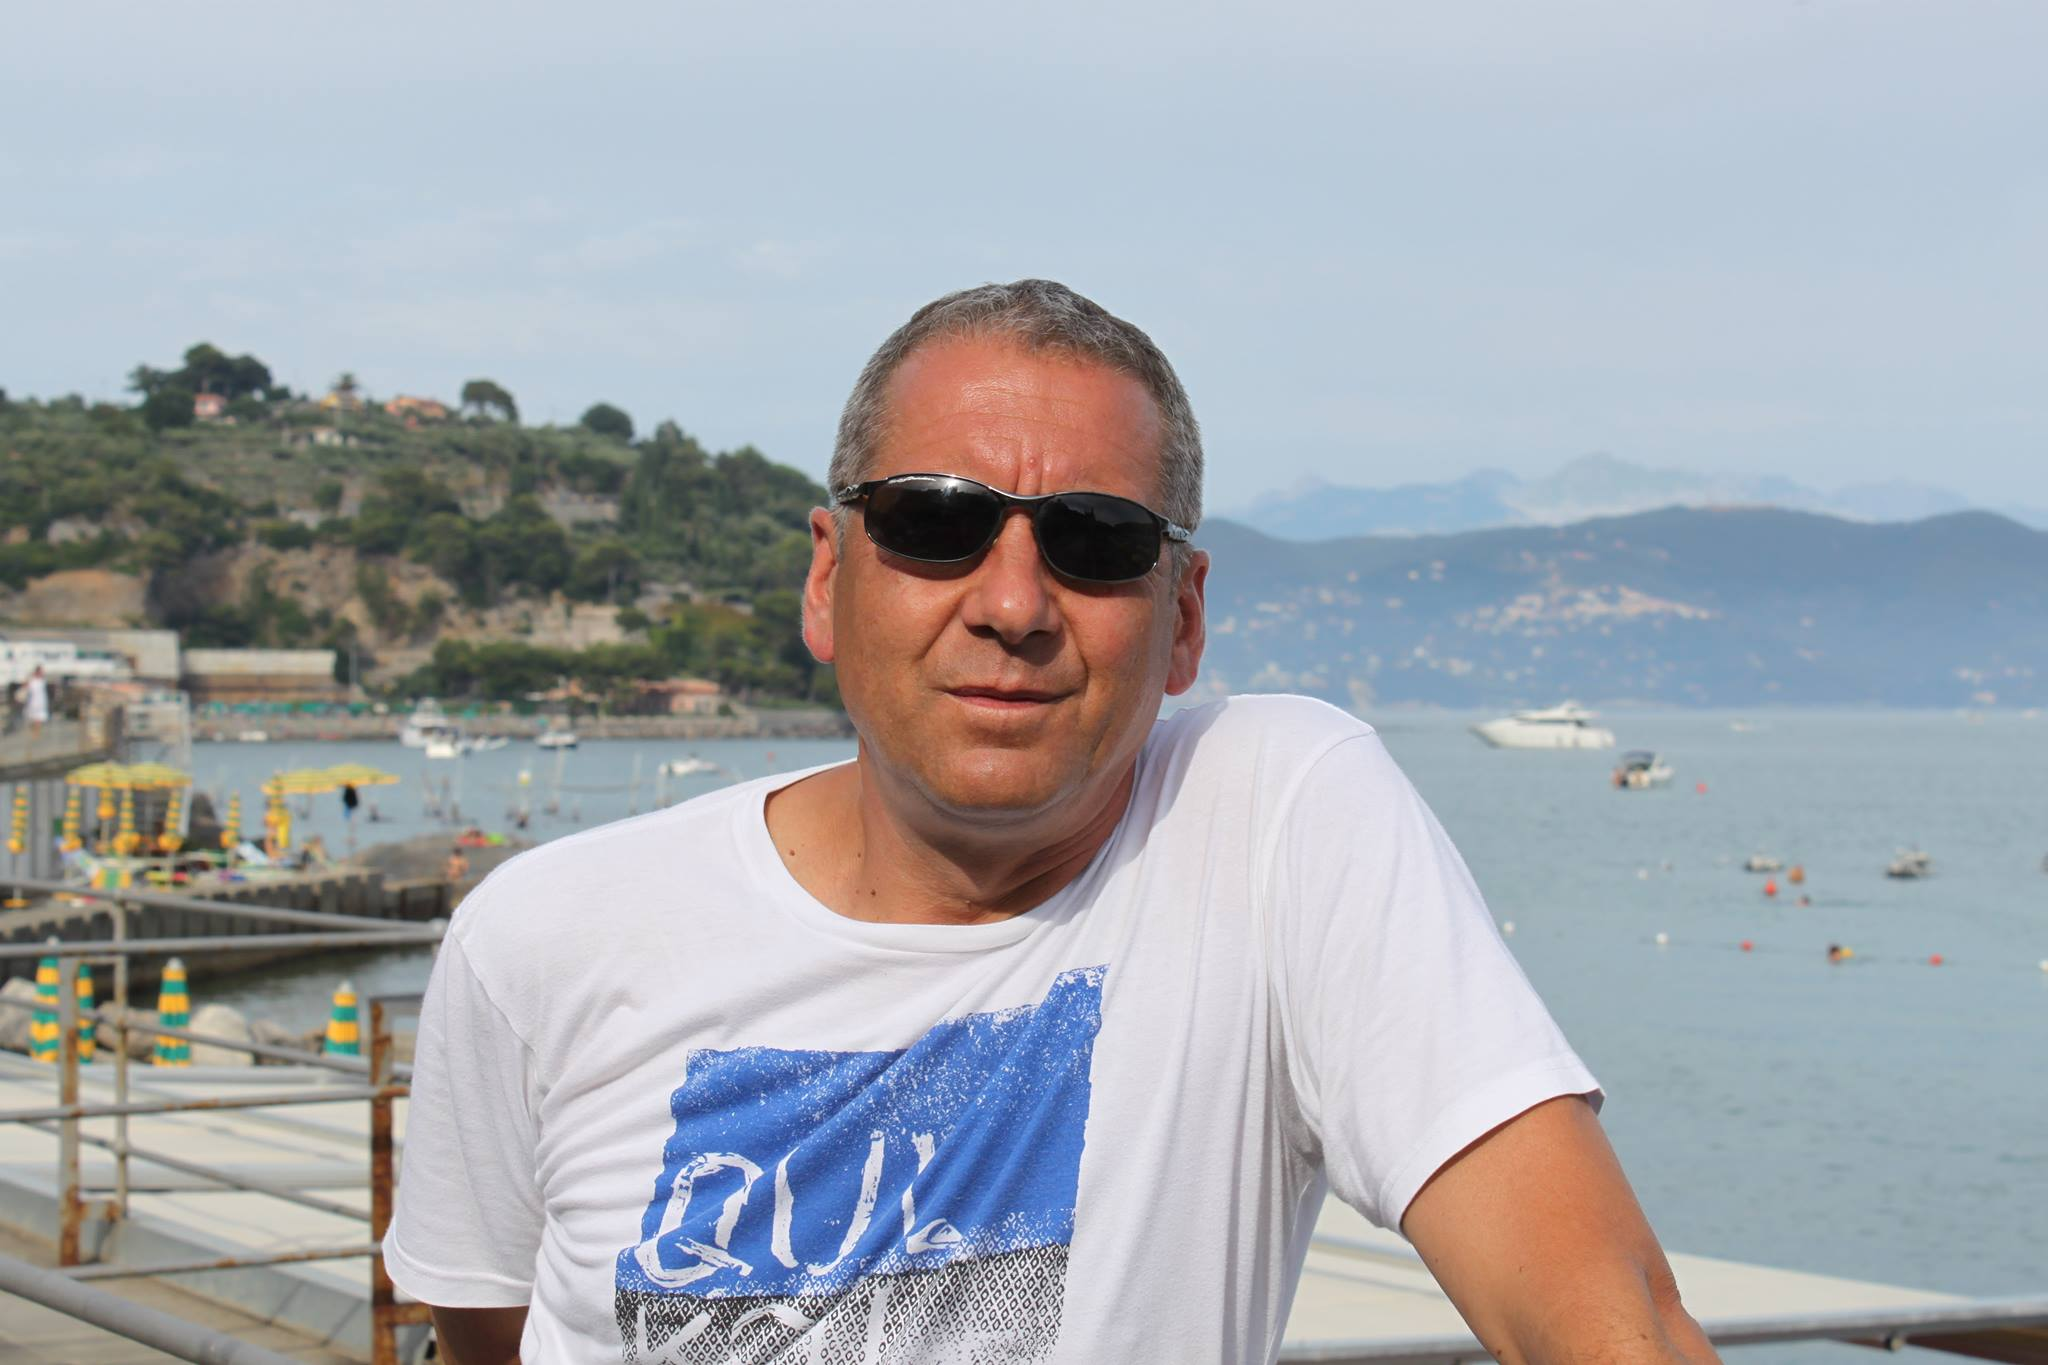
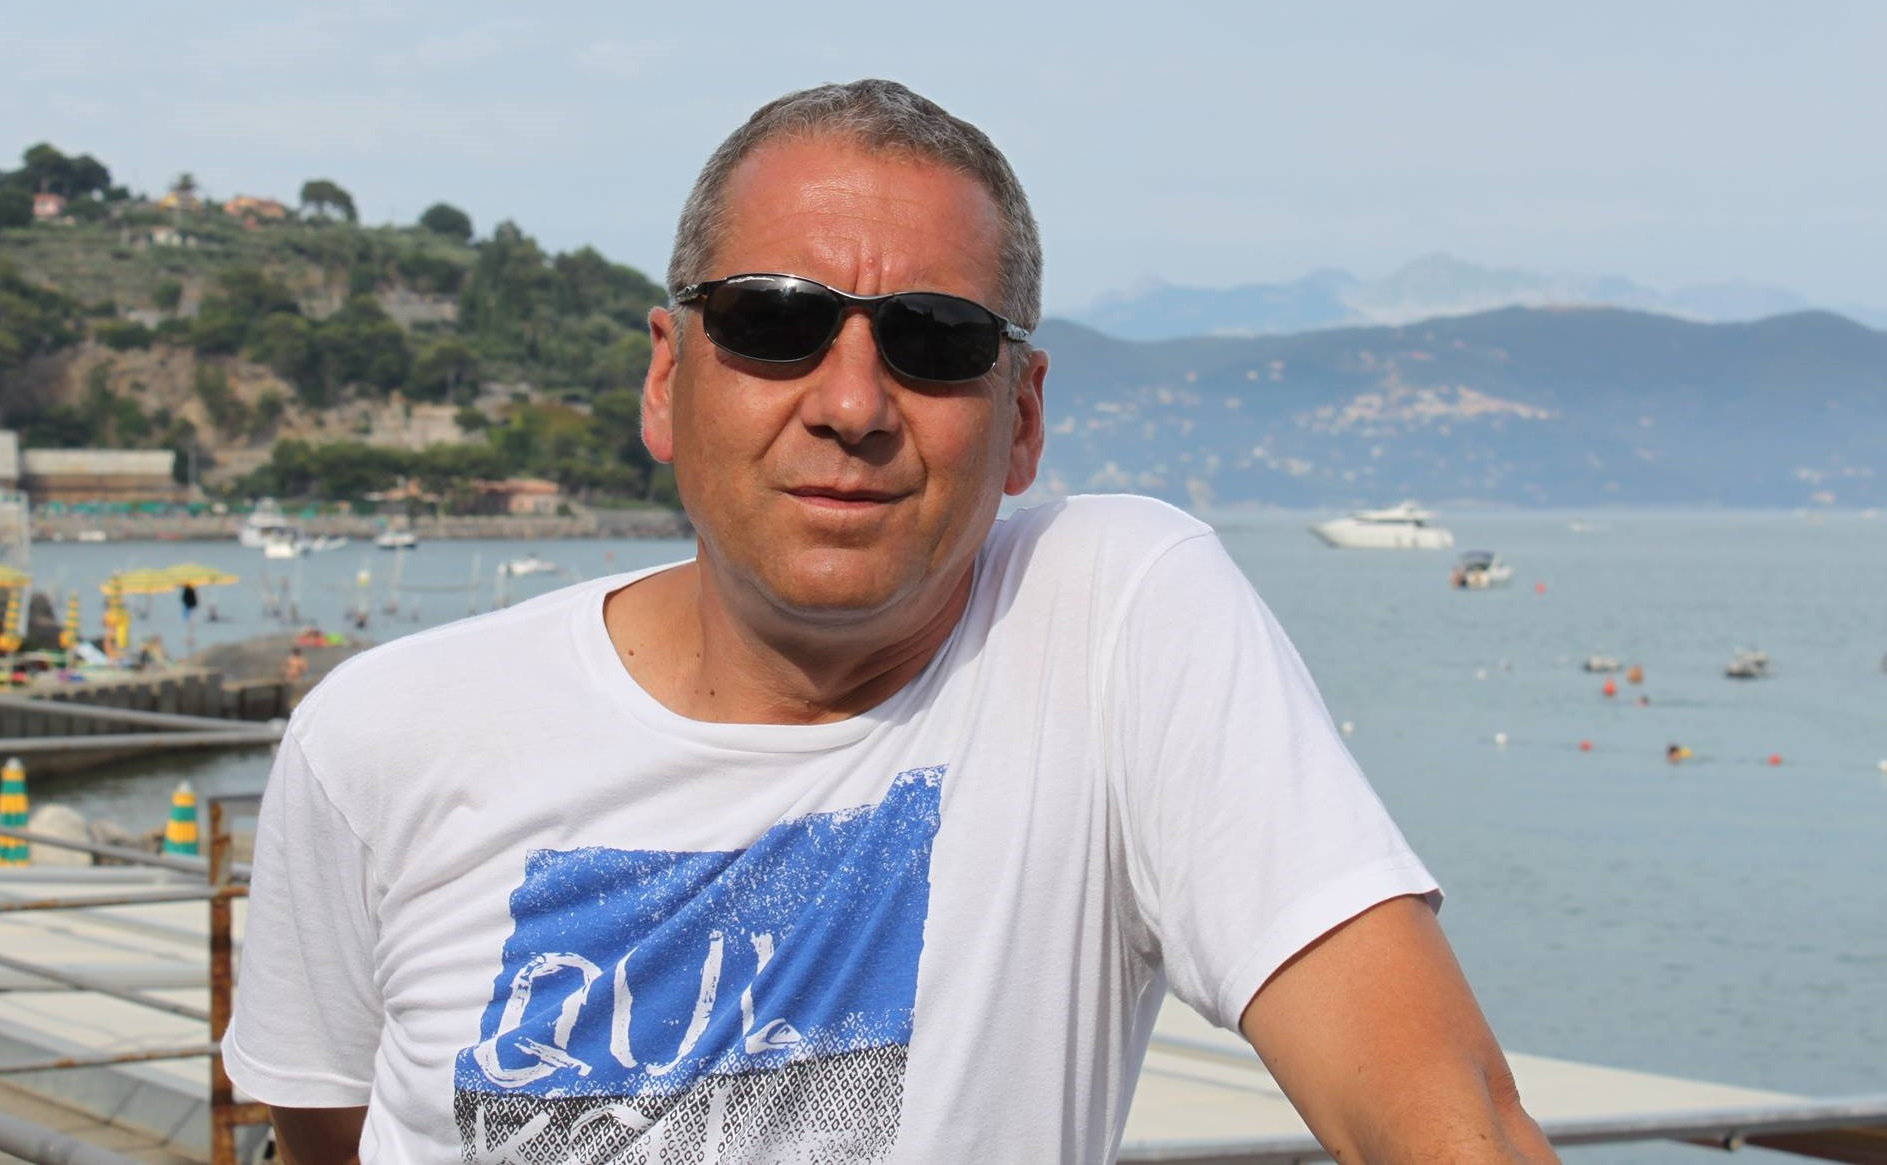
about page improvement

diff --git a/src/About.js b/src/About.js
@@ -3,10 +3,22 @@ import React from 'react'
 import PersonIcon from '@material-ui/icons/Person';
 import MusicNoteIcon from '@material-ui/icons/MusicNote';
 import SpeakerIcon from '@material-ui/icons/Speaker';
-import Logo from "./images/holiday.jpg";
+
+import Logo from "./images/wedding.jpg";
+import PinkFloyd from "./images/pink_floyd.jpg";
+import KingCrimson from "./images/king_crimson.jpg";
+import DeepPurple from "./images/deep_purple.jpg";
 
 import './css/main.css'
 import './css/about.css'
+import './css/inspirations.css'
+
+var music_bands = [
+  {photo:PinkFloyd, name:"Pink Floyd", description:"Kultowy zespół należący do kręgu moich ulubionych. Albumem, do którego najczęściej wracam jest The Dark side of the moon"},
+  {photo:KingCrimson, name:"King Crimson", description:"Jeden z pierwszych zespołów którego słuchałem. W pamięć najbardziej zapada kultowy utwór Frame by frame"},
+  {photo:DeepPurple, name:"Deep Purple", description:"Jeden z pierwszych zespołów którego słuchałem. W pamięć najbardziej zapada kultowy utwór Frame by frame"}
+
+]
 
 
 
@@ -18,6 +30,12 @@ export class About extends React.Component {
             <IntroPane/>
             <div className="headerPane">
               <MusicNoteIcon style={{ fontSize: 50 }}/> Moje inspiracje</div>
+              <div className="inspirationsContainer">
+                <div className="introContentPane"> Muzyka jest w moim życiu praktycznie od zawsze. Ta, która będzie tworzyła klimat na Twojej
+                imprezie jest dowolna. Jeśli jednak będziesz chciał żebym współtworzył playlistę, chciałbym przedstawić
+                Ci kilka płyt, do których mam największy sentyment.</div>
+                <MusicContainer/>
+              </div>
             <div className="headerPane">
               <SpeakerIcon style={{ fontSize: 50 }}/> Sprzęt</div>
           </>);
@@ -31,10 +49,12 @@ export class IntroPane extends React.Component {
       <>
         <div className="introPane">
           <div className="introHeaderPane">
-            <img src={Logo} width="45%" className="shadow"/>
             <div className="introHeaderContent">
-              <div className="headerText">Nazywam się Jarosław Kalinowski.</div>
-              <div className="smallText">Moją pasją i głównym zajęciem jest organizacja oprawy muzycznej na różnego rodzaju imprezach. Zajmuję się wszystkim od wesel po eventy firmowe.</div>
+              <img src={Logo} className="shadow"/>
+              <div className="imagePane">
+                <div className="headerText">Nazywam się Jarosław Kalinowski.</div>
+                <div className="smallText">Moją pasją i głównym zajęciem jest organizacja oprawy muzycznej na różnego rodzaju imprezach. Zajmuję się wszystkim od wesel po eventy firmowe.</div>
+              </div>
             </div>
           </div>
           <div className="introContentPane">
@@ -44,5 +64,38 @@ export class IntroPane extends React.Component {
         </div>
       </>
     );
+  }
+}
+
+export class MusicContainer extends React.Component {
+  render(){
+    return(<>
+      <div className="musicContainer">
+        <MusicBrick></MusicBrick>
+      </div>
+      </>);
+  }
+}
+
+export class MusicBrick extends React.Component {
+  constructor(props){
+    super(props)
+    this.darkStyle = {}
+    this.lightStyle = {}
+  }
+  render(){
+    return(<>
+      {music_bands.map(object =>
+        <div className="musicBrick">
+          <div className="musicPhotoContainer">
+            <img src={object.photo} className="shadow" style={{width:80, height:"auto"}}></img>
+          </div>
+          <div className="musicTextContainer">
+            <div className="musicTitle">{object.name}</div>
+            <div className="musicDescription">{object.description}</div>
+          </div>
+        </div>
+      )}
+      </>);
   }
 }

diff --git a/src/Home.js b/src/Home.js
@@ -15,16 +15,49 @@ var mock_art = [
   {title: "Rozbudowa strony", date:"07.01.2020" , content:"Strona internetowa, na której przebywasz jest w przebudowie, przepraszamy za utrudnienia. Niedługo na stronie zostanie dodany shoutbox z możliwością bezpośredniego i szybkiego kontaktu w celu omówienia usług i dojścia do porozumienia. W celu skorzystania z shoutboxa naciśnij przycisk po prawej stronie znajdujący się pod strzałką... "},
   {title: "Rozbudowa strony", date:"08.01.2020", content:"Strona internetowa, na której przebywasz jest w przebudowie, przepraszamy za utrudnienia. Niedługo na stronie zostanie dodany shoutbox z możliwością bezpośredniego i szybkiego kontaktu w celu omówienia usług i dojścia do porozumienia. W celu skorzystania z shoutboxa naciśnij przycisk po prawej stronie znajdujący się pod strzałką... "}];
 
+var default_style = {fontSize: 40, color:'grey', margin:4}
+
+var social_media = [
+  {component:InstagramIcon, style: default_style, hoverStyle:{margin:4, fontSize: 40, color:'pink'}},
+  {component:FacebookIcon, style: default_style, hoverStyle:{margin:4, fontSize: 40, color:'blue'}},
+  {component:PinterestIcon, style: default_style, hoverStyle:{margin:4, fontSize: 40, color:'red'}}
+]
+
 export class Home extends React.Component {
   render(){
     return(<>
             <div className="headerPane"><MenuBookIcon style={{ fontSize: 50}} /> Co nowego ?</div>
             <NewsContainer></NewsContainer>
             <div className="headerPane"><GroupIcon  style={{ fontSize: 50 }}/> Serwisy społecznościowe</div>
-            <InstagramIcon style={{ fontSize: 40}}/>
-            <FacebookIcon style={{ fontSize: 40}}/>
-            <PinterestIcon style={{ fontSize: 40}}/>
+
+            {social_media.map(object =>
+              <SocialMediaButton name={object.component} style={object.style} hoverStyle={object.hoverStyle}>
+              </SocialMediaButton>)}
           </>);
+  }
+}
+
+export class SocialMediaButton extends React.Component {
+  constructor(props){
+    super(props)
+    this.state = {hover: false}
+    this.hoverState = this.hoverState.bind(this)
+  }
+
+  hoverState(){
+    this.setState({hover: !this.state.hover})
+  }
+
+  render() {
+    let Component = this.props.name;
+    let style={};
+
+    if(this.state.hover)
+      style=this.props.hoverStyle;
+    else
+      style=this.props.style;
+
+    return(<Component style={style} onMouseEnter={this.hoverState} onMouseLeave={this.hoverState}/>);
   }
 }
 

diff --git a/src/css/about.css b/src/css/about.css
@@ -2,41 +2,54 @@
 
 .introPane {
   display: flex;
-  width:70%;
+  width:66%;
   margin: 0 auto;
   align-items: center;
   flex-direction: column;
 }
 
 .introHeaderPane {
+  width: 85%;
+  position: relative;
+  border: 1px black;
+}
+
+.imagePane {
+  padding: 10px;
+  position: absolute;
+  left: 0px;
+  bottom: 0px;
   display: flex;
+  flex-direction: column;
   justify-content: space-around;
+  background: rgba(0,0,0,.5);
+  color: rgba(255,255,255,.6);
+  height: 27%;
+  /*border-radius: 0px 0px 25px 25px;*/
 }
 
 .headerText {
-  color: #636261;
   font-family: 'Gelasio', serif;
-  font-weight: bold;
-  font-size: 23px;
+  font-size: 21px;
   text-align: center;
 }
 
 .smallText {
-  color:#545454;
-  width: 50%;
-  text-align:justify;
   font-family: 'Montserrat', sans-serif;
-  font-size: 20px;
-  width: 350px;
+  font-size: 14px;
 }
 
 .introContentPane {
+  margin-top: 20px;
   padding: 20px;
   font-family: 'Montserrat', sans-serif;
-  font-size: 18px;
+  font-size: 17px;
   color:#545454;
-  text-align: left;
-  width: 100%;
+  text-align: justify;
 }
 
-img.shadow {box-shadow: 1px 1px 7px #8f8f8f;}
+img.shadow {
+  box-shadow: 1px 1px 7px #8f8f8f;
+  width: 100%;
+  /*border-radius: 25px;*/
+}

diff --git a/src/css/menu.css b/src/css/menu.css
@@ -1,14 +1,19 @@
+@import url('https://fonts.googleapis.com/css?family=Gelasio|Montserrat&display=swap');
+
 .menuBrick {
-  margin-right: 20px;
+  margin-right: 25px;
   text-align: center;
-  font-size: 20px;
-  font-family: sans-serif;
+  font-size: 19px;
+  font-family: 'Gelasio', serif;
+  text-shadow: 0px 0px 4px #dedede;
   float: left;
   color: #bda986;
 }
 
 .menuBrick:hover {
-  padding-top: 15px;
+  text-shadow: 0px 0px 0px #c7c2c0;
+  margin-right: 10px;
+  padding-top: 8px;
   padding-left: 10px;
   padding-right: 10px;
   height: 55px;
@@ -19,22 +24,19 @@
 }
 
 .menuContainer {
-  height: 60px;
+  z-index: 1;
+  height: 50px;
   overflow: visible;
-  border-top: 2px solid #bda986;
-  border-bottom: 2px solid #bda986;
-  background-color: #ededed;
+  border-top: 2.5px solid #bda986;
+  border-bottom: 2.5px solid #bda986;
+  background-color: #f2f2f2;
   display: flex;
   align-items: center;
   justify-content: center;
 }
 
 .menuContainerSticky {
-  position: fixed;
+  position: sticky;
   top: 0;
   width: 100%;
-}
-
-.menuContainerSticky + .mainPane {
-  padding-top: 60px;
 }

diff --git a/src/css/inspirations.css b/src/css/inspirations.css
@@ -1,0 +1,56 @@
+@import url('https://fonts.googleapis.com/css?family=Gelasio|Montserrat&display=swap');
+
+.textContainer {
+  width: 66%;
+  margin: 0 auto;
+}
+
+.inspirationsContainer {
+  width: 66%;
+  margin: 0 auto;
+}
+
+.musicContainer {
+  margin: 0 auto;
+  margin-top: 10px;
+  height: 300px;
+}
+
+.musciContainer::-webkit-scrollbar { /* WebKit */
+    width: 0;
+    height: 0;
+}
+
+.musicBrick {
+  border: 1px solid #d4d2d1;
+  margin-bottom: 5px;
+  padding: 10px;
+  width: 100%;
+  display: flex;
+  flex-direction: row;
+  justify-content: space-between;
+  background-color: #f7f1ee;
+}
+
+.musicTextContainer {
+  width: 80%;
+  border-left: 1px solid #d4d2d1;
+  text-align: center;
+}
+
+.musicPhotoContainer {
+  width: 20%;
+  text-align: center;
+}
+
+.musicTitle {
+  font-family: 'Gelasio', serif;
+  font-size: 20px;
+  color:grey;
+}
+
+.musicDescription {
+  padding: 3px;
+  font-family: 'Montserrat', sans-serif;
+  font-size: 13px;
+}

diff --git a/src/ScrollField.js b/src/ScrollField.js
@@ -1,0 +1,16 @@
+import React from 'react'
+
+export class ScrollField {
+
+  render(){
+    let Component = this.props.component;
+
+    scrollComponent(){
+
+    }
+
+    return(<>
+      <div onMouseDown=this.scrollComponent></div>
+      </>);
+  }
+}
